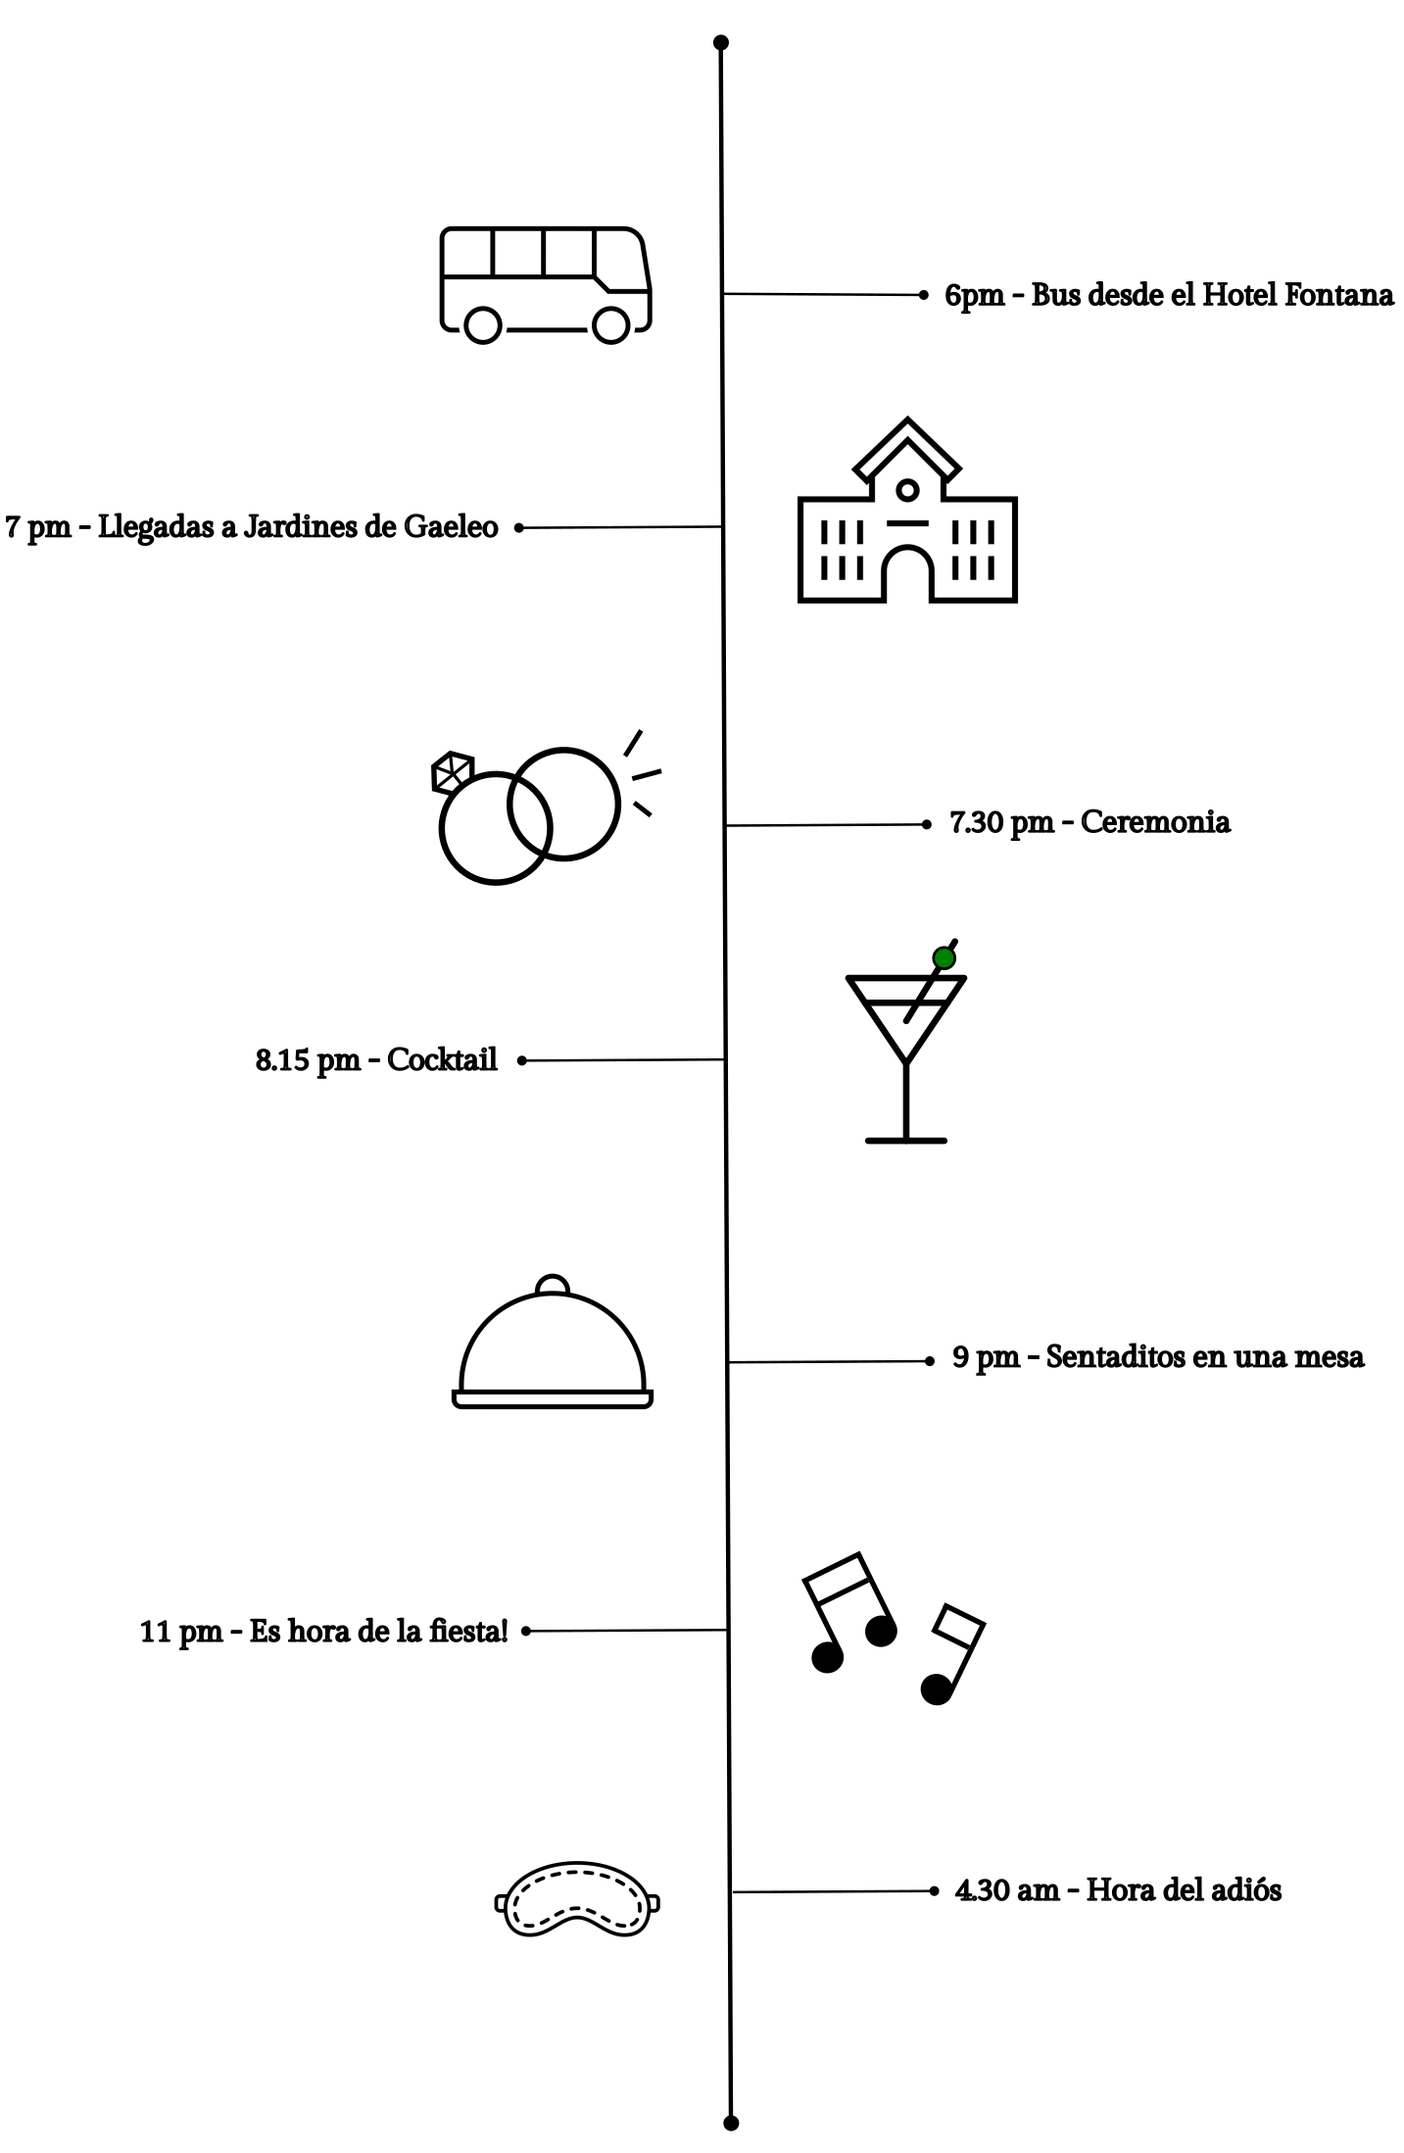
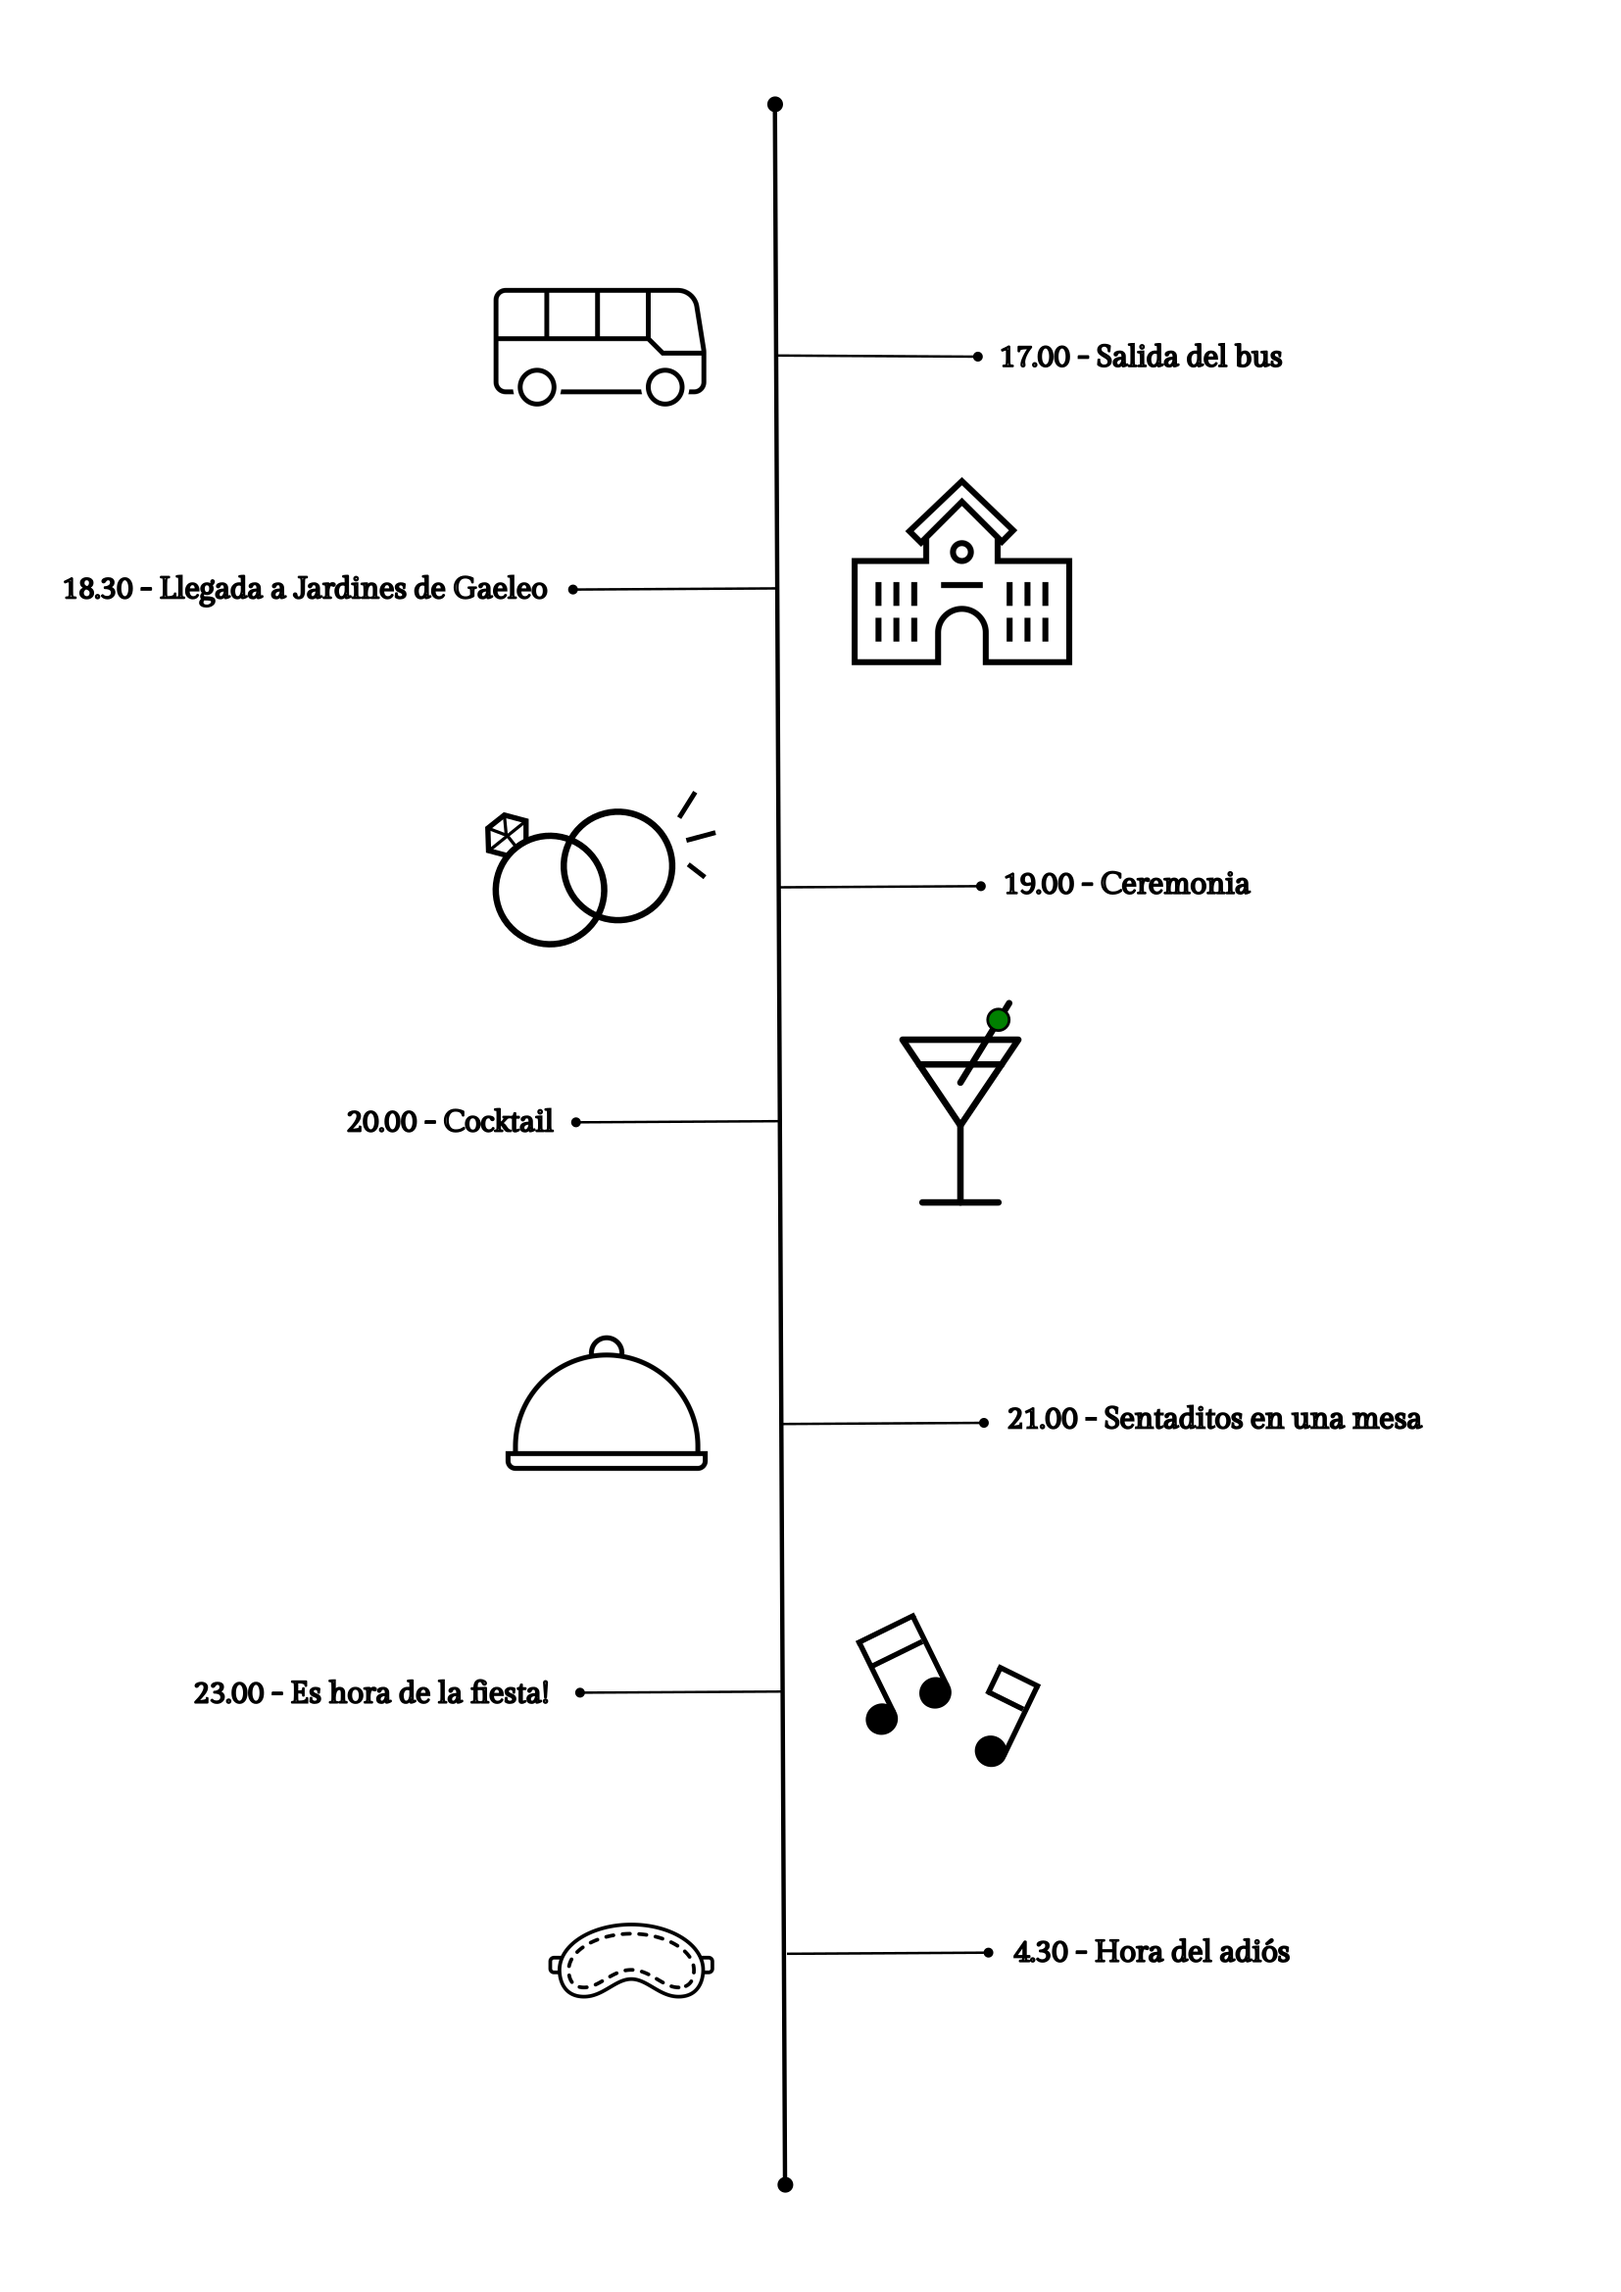
cambios en espanyol

diff --git a/index_and.html b/index_and.html
@@ -53,7 +53,7 @@
                 <h1 class="subtitle">Invitación de boda</h1>
                 <h2 class="title">P<span class="ampersand">&</span>M</h2>
                 <h4 class="subtitle tempatwaktu">
-                    Sábado, 19.00
+                    Sábado, 18.30
                     <br>
                     14 septiembre 2024
                     <br>
@@ -473,6 +473,15 @@
                                     <option value="">Seleccionar...</option>
                                     <option value="yes">Sí</option>
                                     <option value="no">No</option>
+                                </select>
+                            </label>
+                        </p>
+                        <p>
+                            <label>En caso afirmativo, cuál cogerías?
+                                <select name="shuttle_time">
+                                    <option value="">Seleccionar...</option>
+                                    <option value="2/2.30am">2/2.30 (me voy!)</option>
+                                    <option value="4.30am">4.30 (a mi me echan!)</option>
                                 </select>
                             </label>
                         </p>

diff --git a/index_es.html b/index_es.html
@@ -53,7 +53,7 @@
                 <h1 class="subtitle">Invitación de boda</h1>
                 <h2 class="title">P<span class="ampersand">&</span>M</h2>
                 <h4 class="subtitle tempatwaktu">
-                    Sábado, 19.00
+                    Sábado, 18.30
                     <br>
                     14 septiembre 2024
                     <br>
@@ -308,6 +308,15 @@
                                     <option value="">Seleccionar...</option>
                                     <option value="yes">Sí</option>
                                     <option value="no">No</option>
+                                </select>
+                            </label>
+                        </p>
+                        <p>
+                            <label>En caso afirmativo, cuál cogerías?
+                                <select name="shuttle_time">
+                                    <option value="">Seleccionar...</option>
+                                    <option value="2/2.30am">2/2.30 (me voy!)</option>
+                                    <option value="4.30am">4.30 (a mi me echan!)</option>
                                 </select>
                             </label>
                         </p>
